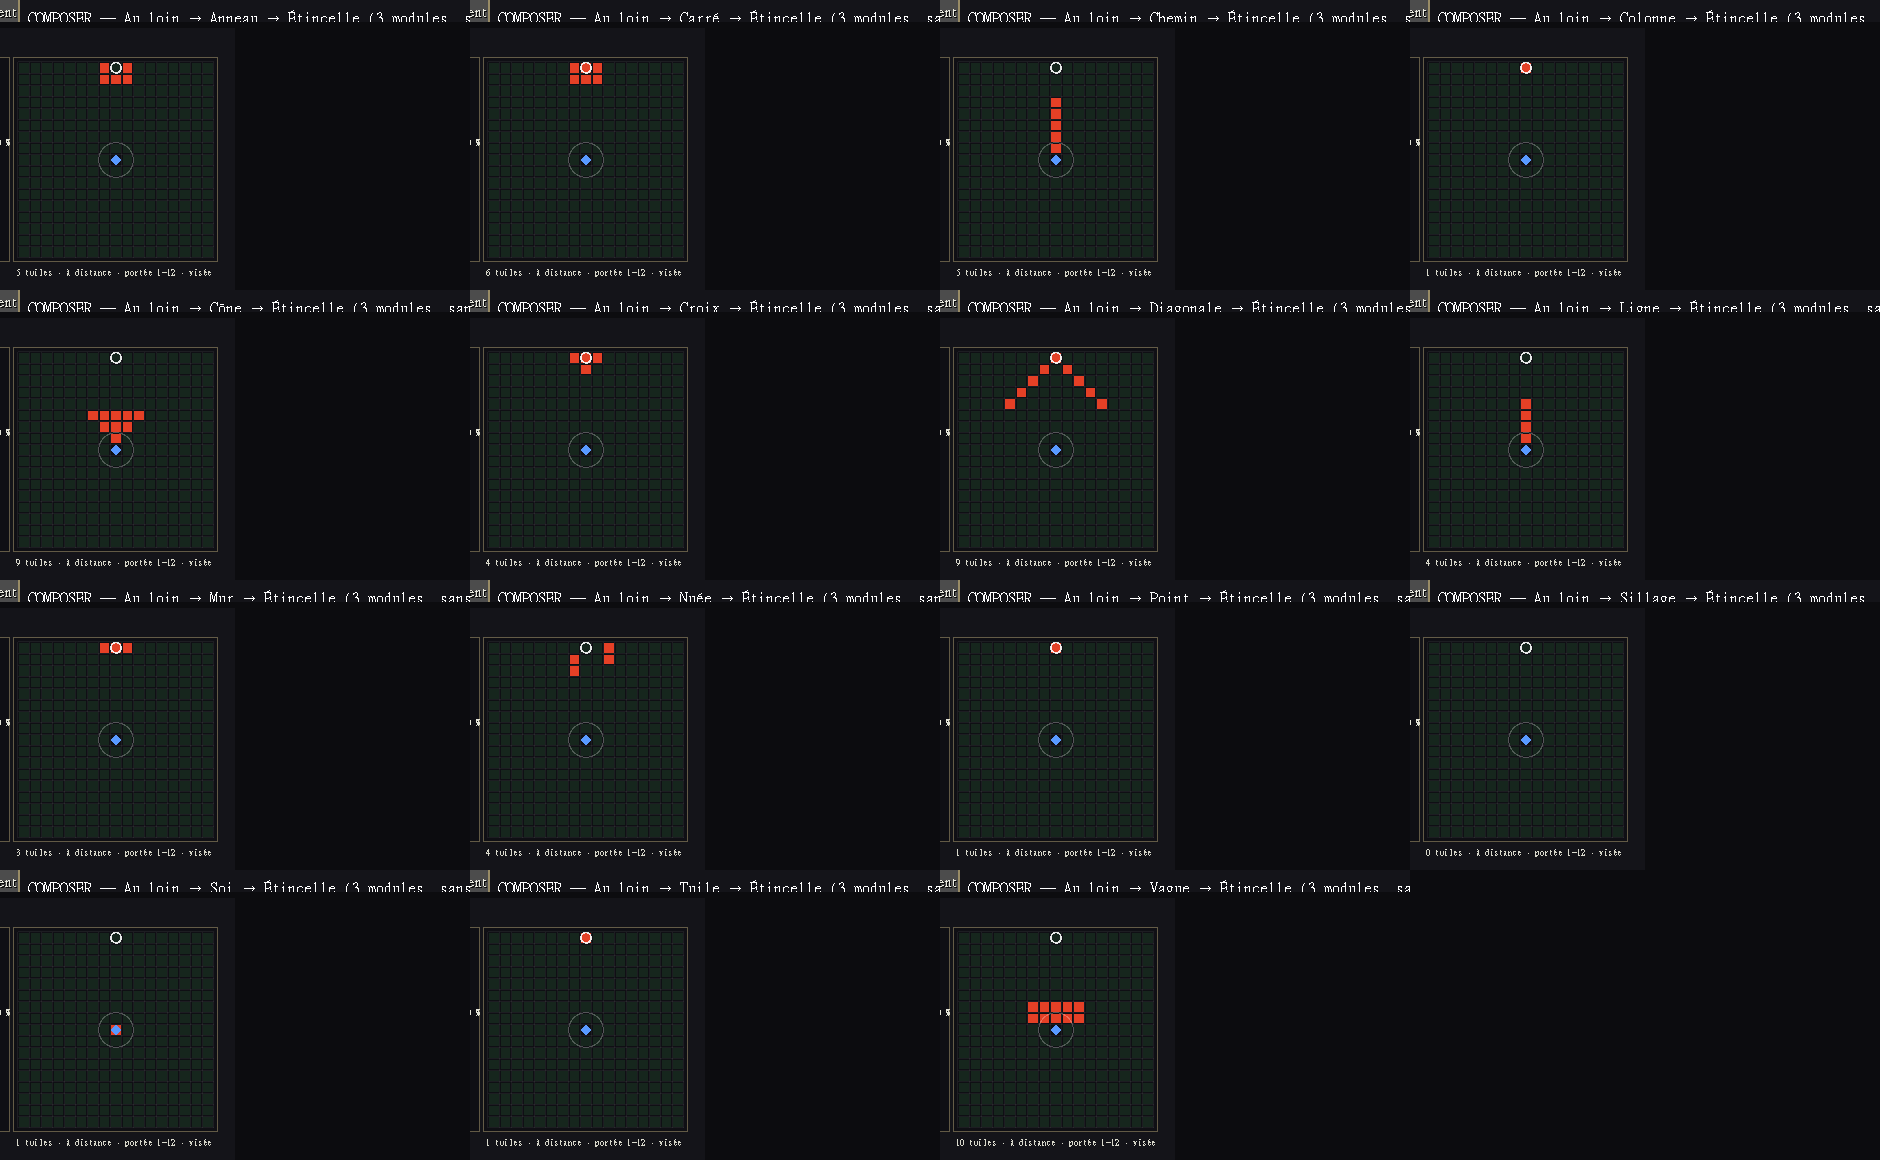
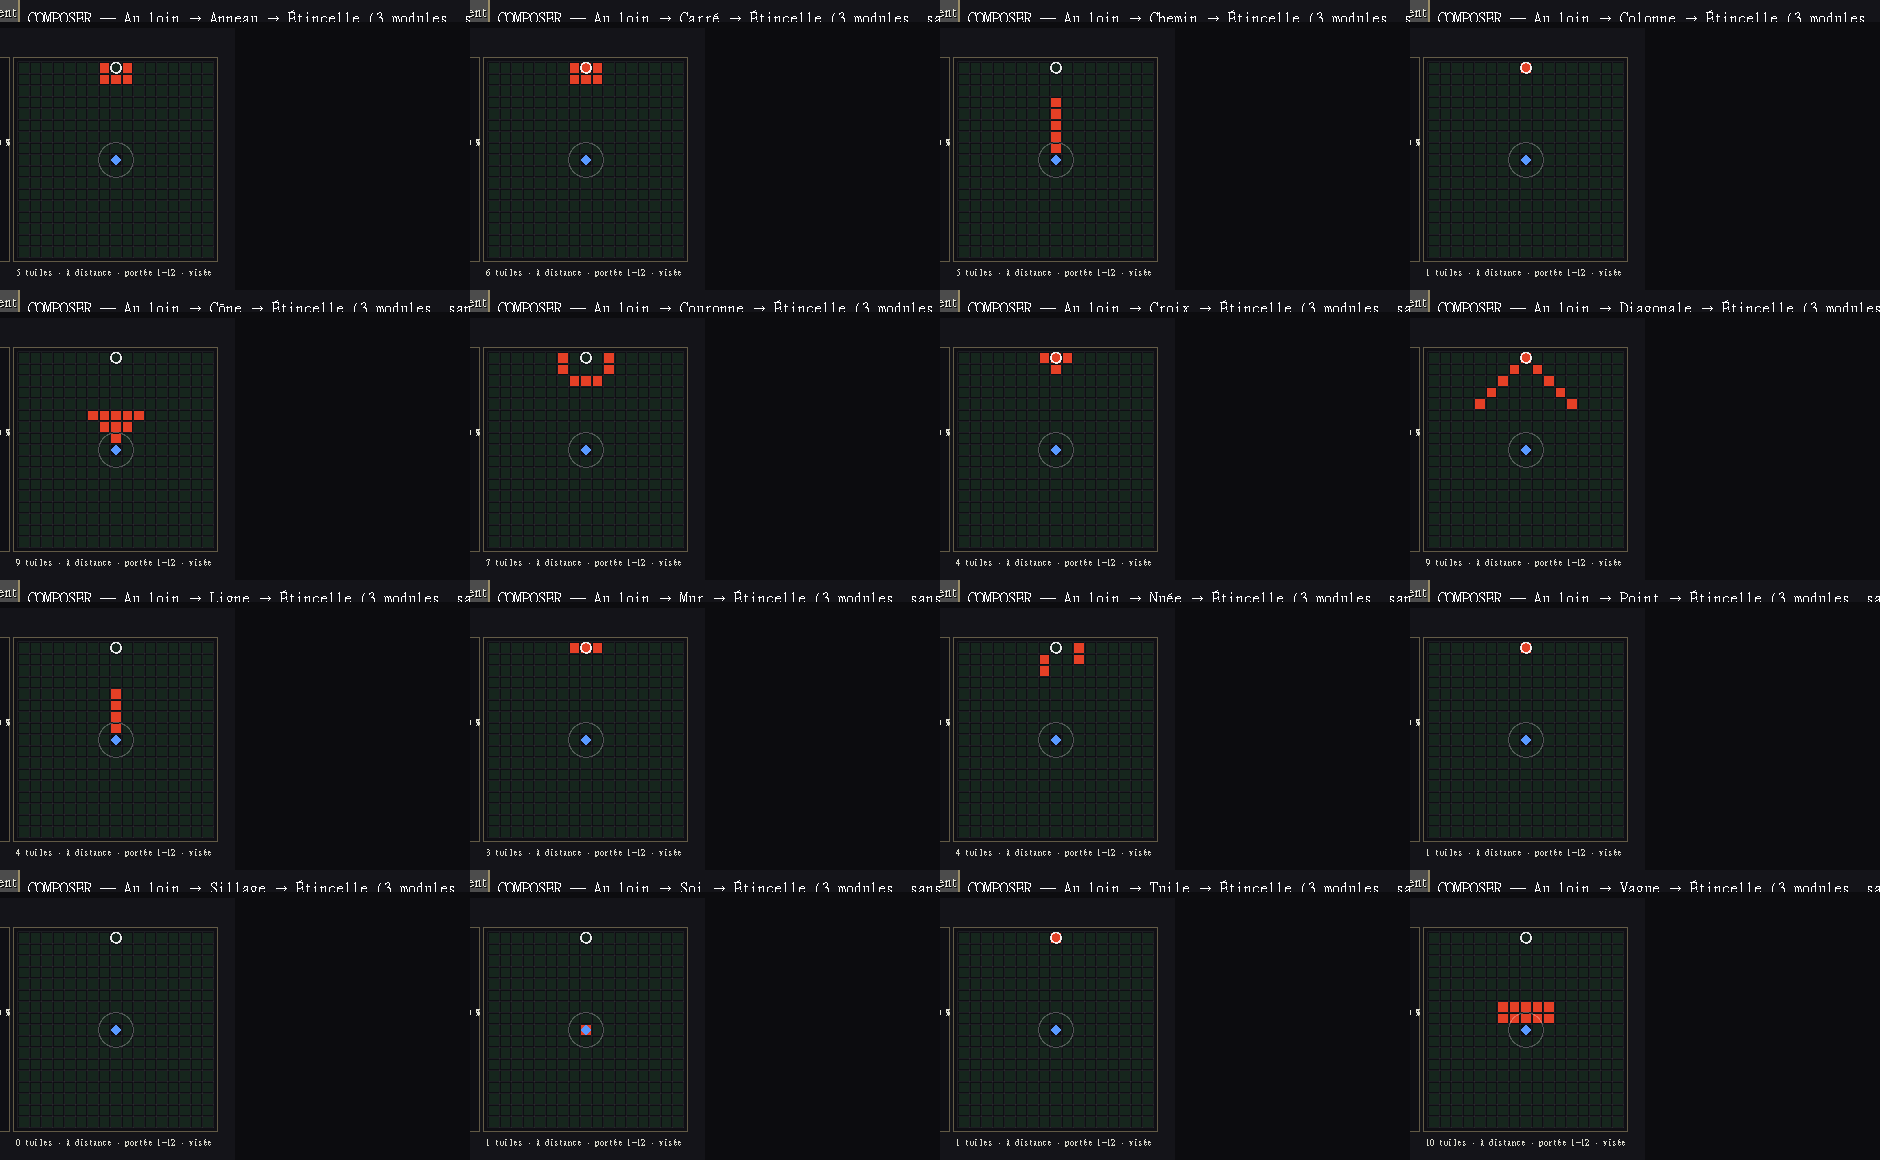
Trois modules pour trois manques : Hast, Mortier, Couronne
Hast (1-2, +1) est l'entre-deux du contact et du jet, qui n'existait
pas. Mortier (3-8, a travers les murs, +7) est la premiere portee a
MINIMUM : un tir en cloche inutilisable au corps a corps — jusqu'ici
tout ce qui portait loin portait aussi pres, et aucune portee ne
laissait d'angle mort. Couronne ne touche que les tuiles a distance
exacte du centre : aucune forme ne faisait de trou (anneau, malgre son
nom, est un carre plein moins son centre).

Le module de portee s'appelle Hast et non Allonge : un modificateur
Allonge (+2 tuiles) existait deja, deux entrees du meme nom dans le
composeur n'auraient rien voulu dire.

diff --git a/tools/audit_donnees.py b/tools/audit_donnees.py
@@ -344,7 +344,7 @@ for mid, m in modules_cat.items():
 # La liste est tenue a la main en miroir de Simulation._evaluer_conditions : un predicat absent d'ici
 # est un module qui ne se declenche JAMAIS (la capacite ne part pas du tout).
 # Miroir de Capacites.tuiles_de_forme : une geometrie absente d'ici tombe dans le defaut « visee au point ».
-GEOMETRIES_GEREES = ("point", "soi", "ligne", "cone", "croix", "diagonale", "carre", "anneau", "tuile", "vague",
+GEOMETRIES_GEREES = ("point", "soi", "ligne", "cone", "croix", "diagonale", "carre", "anneau", "couronne", "tuile", "vague",
     "mur", "sillage", "chemin", "colonne", "horizon", "nuee")
 PREDICATS_GERES = ("hauteur_relative", "dos_ou_flanc", "ligne_de_vue_degagee", "cible_isolee",
     "cible_adjacente_a_allie", "pv_cible_sous", "pv_porteur_sous", "vecteur_de_lieu", "porteur_en_posture",

diff --git a/docs/03 - Combat/Six types de modules et assemblage.md b/docs/03 - Combat/Six types de modules et assemblage.md
@@ -79,6 +79,10 @@ Le même vocabulaire produit une attaque, un contrôle de zone, un piège et un 
 > « horizon est beaucoup trop puissant, on retire ». Les planches de combinaisons l'avaient montré : `horizon` touchait **toutes les entités en vue** quelle que soit la portée qu'on lui associait — la combinaison la moins chère (`contact`, +0 tick) donnait donc la portée maximale, et le module de portée ne servait plus à rien. Il devenait aussi la seule forme dont le prix ne dépendait pas de ce qu'elle couvrait. La forme disparaît du catalogue ; sa géométrie reste dans le code, inutilisée, le temps qu'on soit sûr de ne pas vouloir la réintroduire encadrée. Il reste quinze formes.
 
 
+> [!success] Codé le 2026-09-01 — trois modules pour combler trois manques (designer : « rajoute des modules »)
+> Les planches de combinaisons ont montré ce qui n'existait pas. **Deux portées** : `allonge` (1-2, +1 tick) — l'entre-deux du contact et du jet, la portée des armes d'hast, qui manquait complètement ; et `mortier` (**3-8**, à travers les murs, +7 ticks) — la première portée à **minimum**, inutilisable au corps à corps : un tir en cloche qui passe par-dessus l'obstacle mais laisse un angle mort autour du lanceur. C'est la seule contrainte tactique que le catalogue n'avait pas : jusqu'ici, tout ce qui portait loin portait aussi près. **Une forme** : `couronne` — les seules tuiles à distance exacte du centre, qui **épargne le centre et ses voisins**. Aucune forme ne faisait de trou ; `anneau` malgré son nom est un carré plein moins son centre. Elle sert à frapper autour d'un allié, ou à cercler sans toucher ce qu'on encercle.
+
+
 ## Liens
 - **Dépend de** : [[Vocabulaire des modules — six axes]], [[Structure compétences-modules-slots]]
 - **Alimente** : [[Familles de capacités de la grille]], [[Modules]], [[Jauge de chaîne Wu Xing]]
